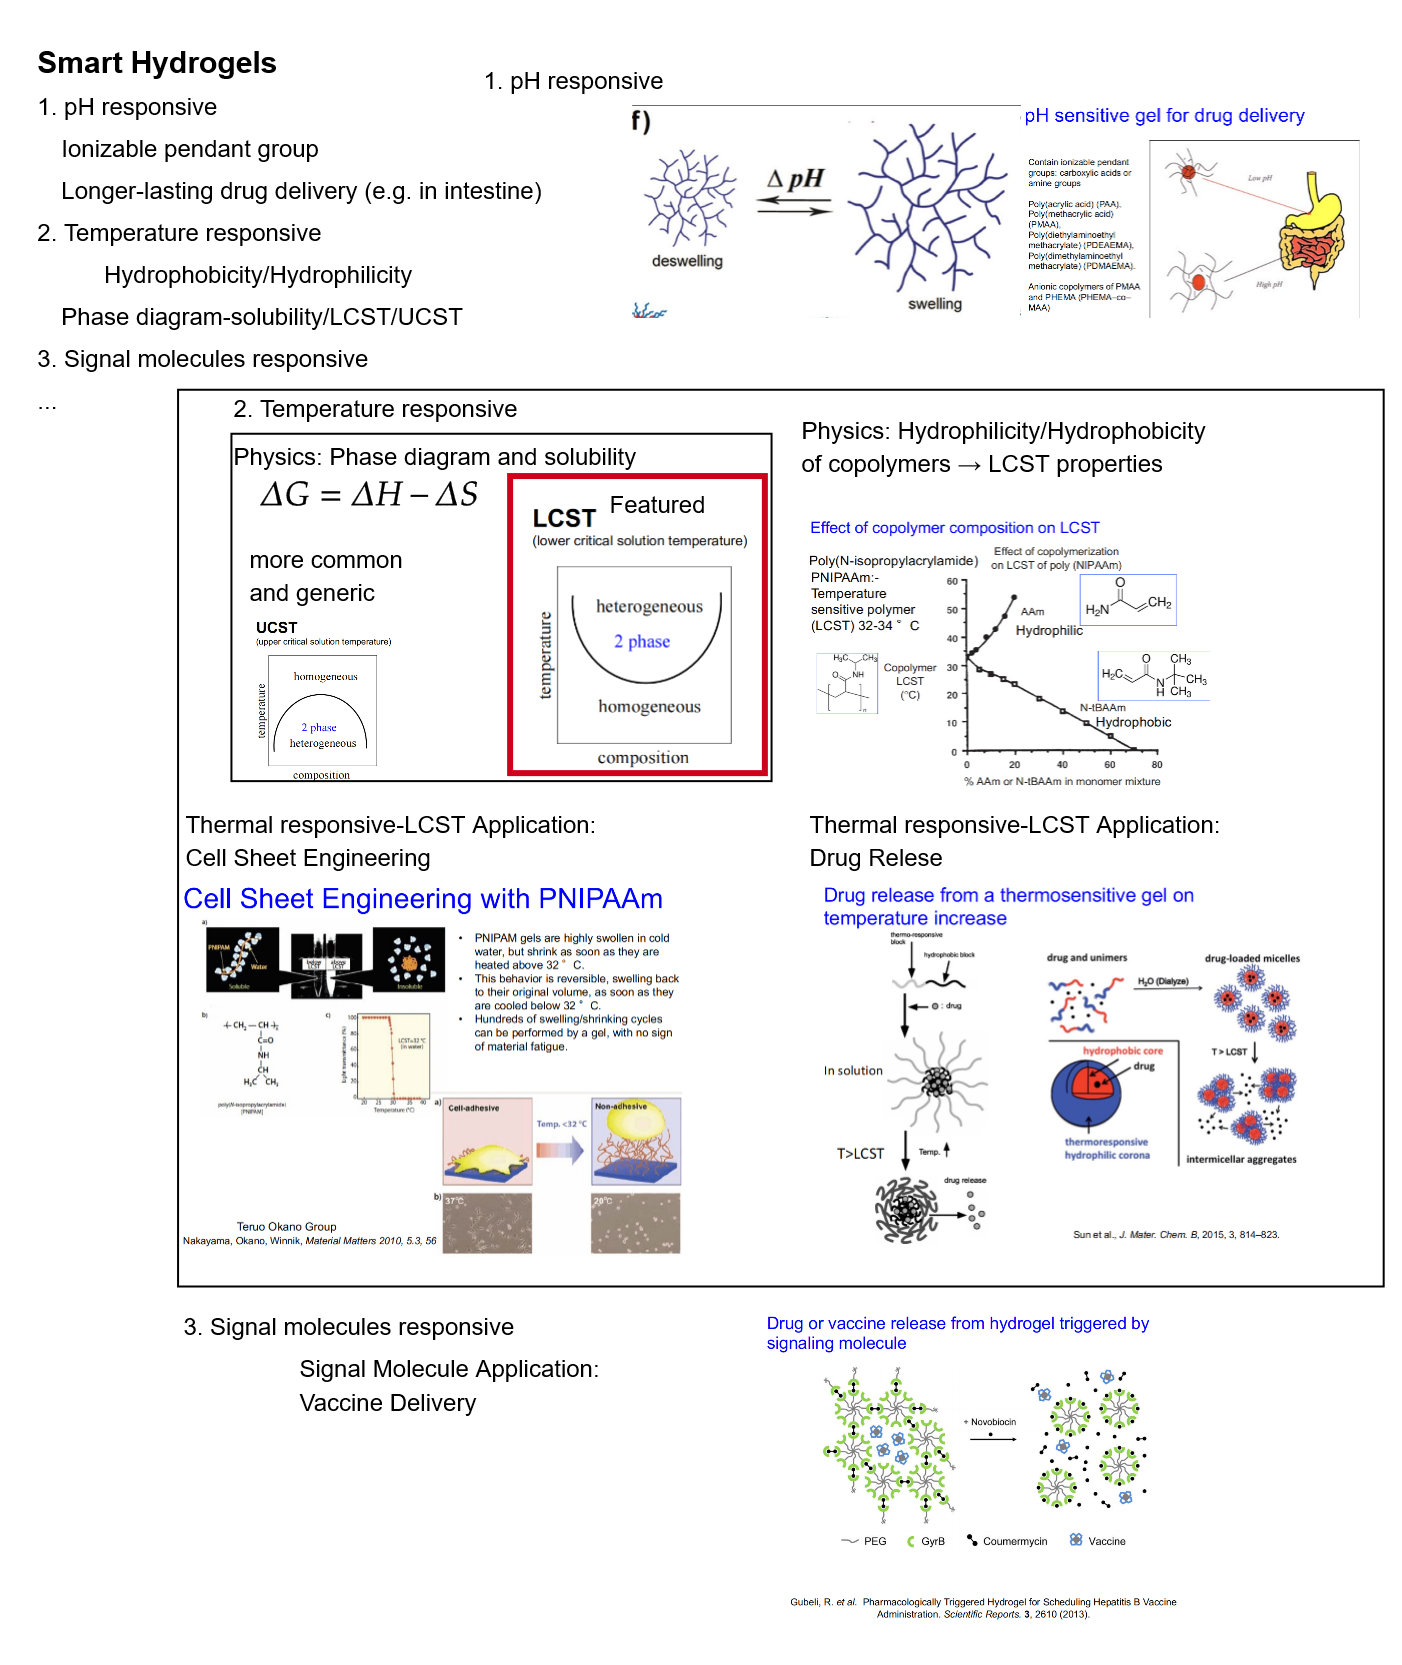
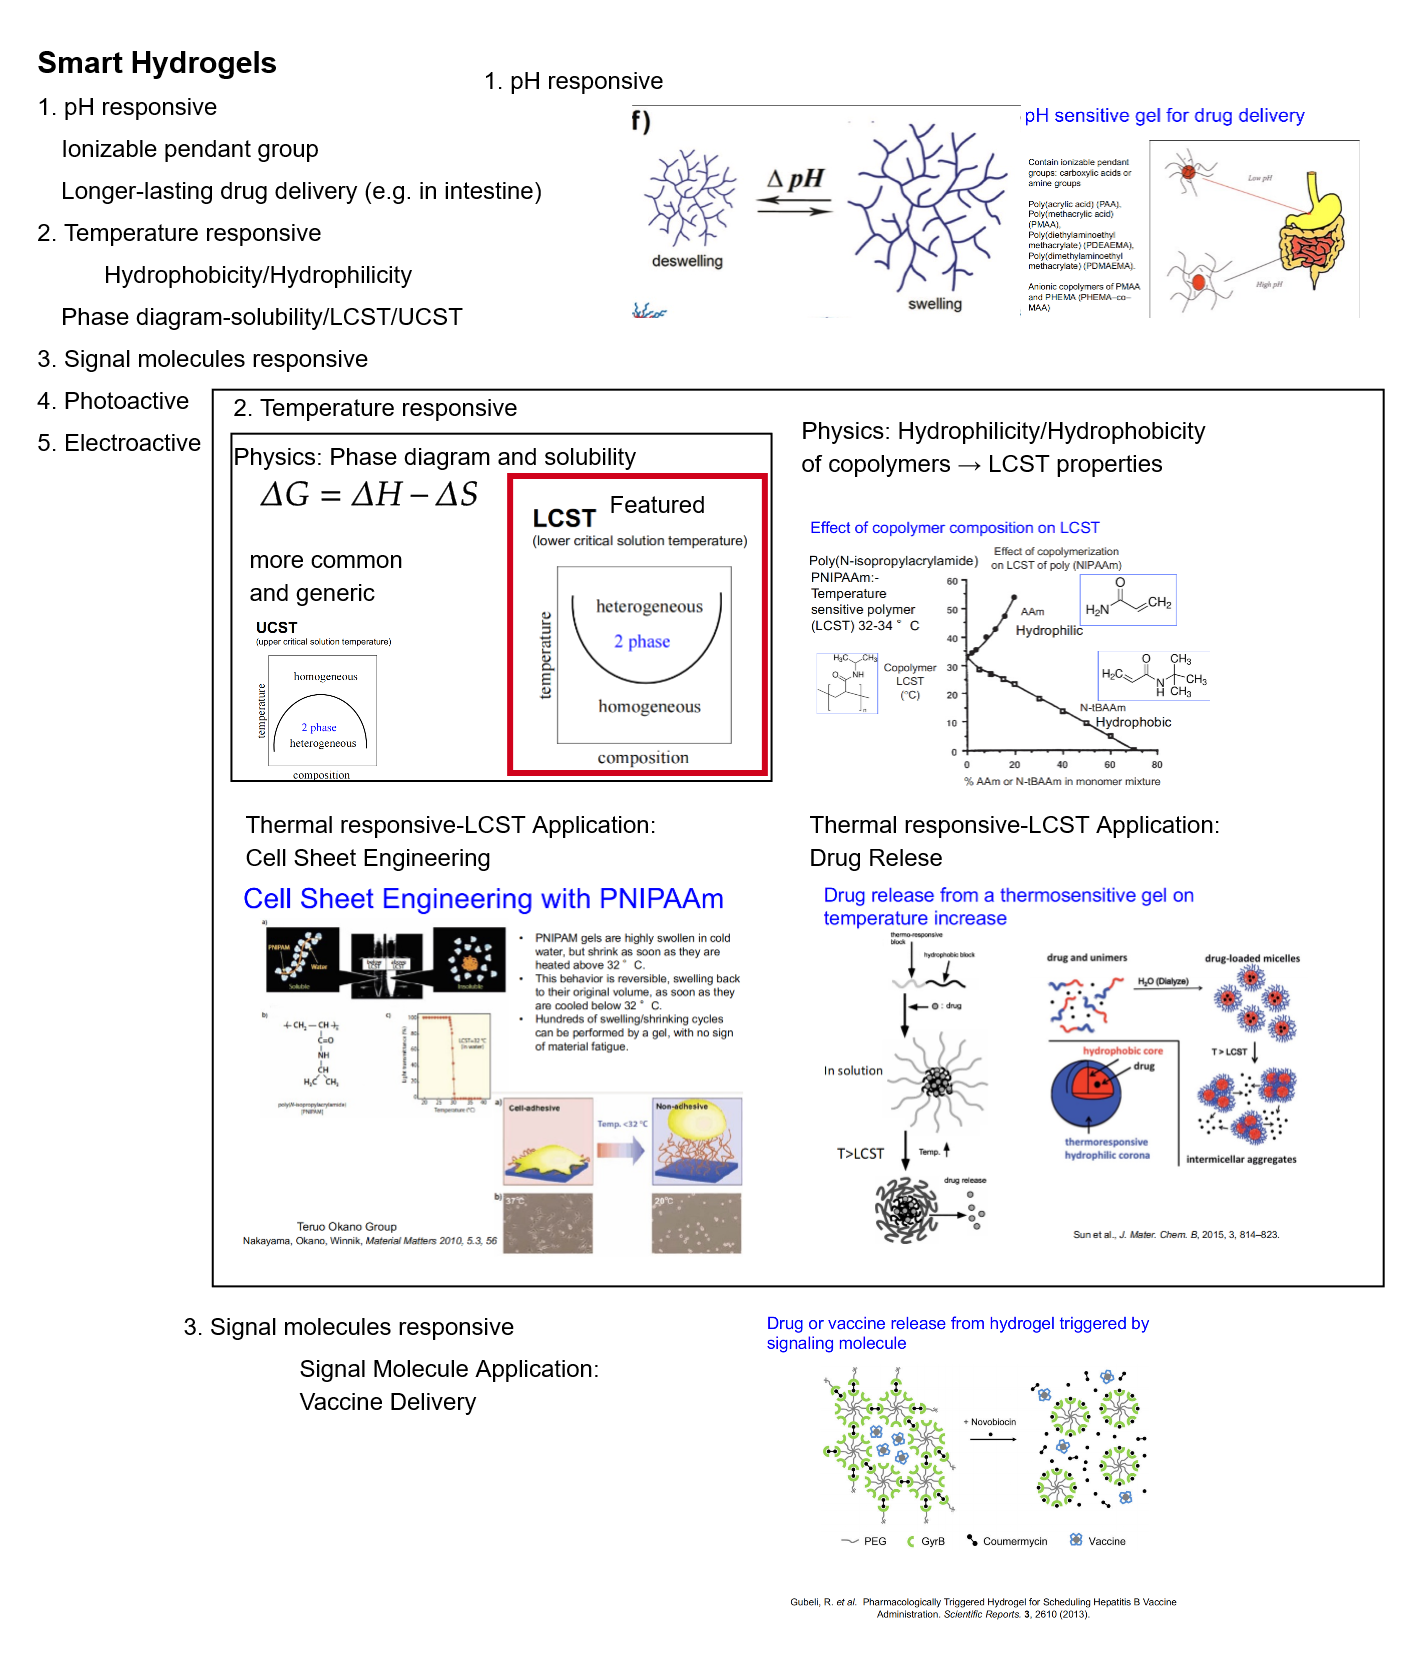
1pm update

diff --git a/734/g-course-memo/course/2/activity_date_asc.html b/734/g-course-memo/course/2/activity_date_asc.html
@@ -33,7 +33,7 @@
             <tr>
                 <td>15</td>
                 <td>2024-10-17</td>
-                <td><a href="/734/g-course-memo/course/2/activity_id/2.html">Polymer-Surface Characterization</a></td>              
+                <td><a href="/734/g-course-memo/course/2/activity_id/2.html">Polymer:<br>Surface Characterization</a></td>              
                 <td>
                     
                         No image available
@@ -79,10 +79,22 @@
             <tr>
                 <td>19</td>
                 <td>2024-11-05</td>
-                <td><a href="/734/g-course-memo/course/2/activity_id/31.html">Hydrogels 3:<br>Smart Hydrogels</a></td>              
+                <td><a href="/734/g-course-memo/course/2/activity_id/31.html">Hydrogels 3:<br>Smart Hydrogels 1</a></td>              
                 <td>
                     
                             <a href="/734/g-course-memo/course/2/activity_id/31.html" target="_blank"><img src="/static/G-Course-Memo%20image/BME410/BME410_19_1.png" alt="None" class="academic-image"></a>
+                        <!-- </a> -->
+                    
+                </td>             
+            </tr>
+            
+            <tr>
+                <td>20</td>
+                <td>2024-11-07</td>
+                <td><a href="/734/g-course-memo/course/2/activity_id/43.html">Hydrogels 3:<br>Smart Hydrogels 2<br>Sterilization of Biomaterials</a></td>              
+                <td>
+                    
+                            <a href="/734/g-course-memo/course/2/activity_id/43.html" target="_blank"><img src="/static/G-Course-Memo%20image/BME410/BME410_20_1.png" alt="None" class="academic-image"></a>
                         <!-- </a> -->
                     
                 </td>             

diff --git a/734/g-course-memo/course/2/activity_id.html b/734/g-course-memo/course/2/activity_id.html
@@ -33,7 +33,7 @@
             <tr>
                 <td>15</td>
                 <td>2024-10-17</td>
-                <td><a href="/734/g-course-memo/course/2/activity_id/2.html">Polymer-Surface Characterization</a></td>              
+                <td><a href="/734/g-course-memo/course/2/activity_id/2.html">Polymer:<br>Surface Characterization</a></td>              
                 <td>
                     
                         No image available
@@ -79,10 +79,22 @@
             <tr>
                 <td>19</td>
                 <td>2024-11-05</td>
-                <td><a href="/734/g-course-memo/course/2/activity_id/31.html">Hydrogels 3:<br>Smart Hydrogels</a></td>              
+                <td><a href="/734/g-course-memo/course/2/activity_id/31.html">Hydrogels 3:<br>Smart Hydrogels 1</a></td>              
                 <td>
                     
                             <a href="/734/g-course-memo/course/2/activity_id/31.html" target="_blank"><img src="/static/G-Course-Memo%20image/BME410/BME410_19_1.png" alt="None" class="academic-image"></a>
+                        <!-- </a> -->
+                    
+                </td>             
+            </tr>
+            
+            <tr>
+                <td>20</td>
+                <td>2024-11-07</td>
+                <td><a href="/734/g-course-memo/course/2/activity_id/43.html">Hydrogels 3:<br>Smart Hydrogels 2<br>Sterilization of Biomaterials</a></td>              
+                <td>
+                    
+                            <a href="/734/g-course-memo/course/2/activity_id/43.html" target="_blank"><img src="/static/G-Course-Memo%20image/BME410/BME410_20_1.png" alt="None" class="academic-image"></a>
                         <!-- </a> -->
                     
                 </td>             

diff --git a/734/g-course-memo/course/2/activity_sequence.html b/734/g-course-memo/course/2/activity_sequence.html
@@ -33,7 +33,7 @@
             <tr>
                 <td>15</td>
                 <td>2024-10-17</td>
-                <td><a href="/734/g-course-memo/course/2/activity_id/2.html">Polymer-Surface Characterization</a></td>              
+                <td><a href="/734/g-course-memo/course/2/activity_id/2.html">Polymer:<br>Surface Characterization</a></td>              
                 <td>
                     
                         No image available
@@ -79,10 +79,22 @@
             <tr>
                 <td>19</td>
                 <td>2024-11-05</td>
-                <td><a href="/734/g-course-memo/course/2/activity_id/31.html">Hydrogels 3:<br>Smart Hydrogels</a></td>              
+                <td><a href="/734/g-course-memo/course/2/activity_id/31.html">Hydrogels 3:<br>Smart Hydrogels 1</a></td>              
                 <td>
                     
                             <a href="/734/g-course-memo/course/2/activity_id/31.html" target="_blank"><img src="/static/G-Course-Memo%20image/BME410/BME410_19_1.png" alt="None" class="academic-image"></a>
+                        <!-- </a> -->
+                    
+                </td>             
+            </tr>
+            
+            <tr>
+                <td>20</td>
+                <td>2024-11-07</td>
+                <td><a href="/734/g-course-memo/course/2/activity_id/43.html">Hydrogels 3:<br>Smart Hydrogels 2<br>Sterilization of Biomaterials</a></td>              
+                <td>
+                    
+                            <a href="/734/g-course-memo/course/2/activity_id/43.html" target="_blank"><img src="/static/G-Course-Memo%20image/BME410/BME410_20_1.png" alt="None" class="academic-image"></a>
                         <!-- </a> -->
                     
                 </td>             

diff --git a/734/g-course-memo/course/2/activity_name.html b/734/g-course-memo/course/2/activity_name.html
@@ -57,7 +57,7 @@
             <tr>
                 <td>19</td>
                 <td>2024-11-05</td>
-                <td><a href="/734/g-course-memo/course/2/activity_id/31.html">Hydrogels 3:<br>Smart Hydrogels</a></td>              
+                <td><a href="/734/g-course-memo/course/2/activity_id/31.html">Hydrogels 3:<br>Smart Hydrogels 1</a></td>              
                 <td>
                     
                             <a href="/734/g-course-memo/course/2/activity_id/31.html" target="_blank"><img src="/static/G-Course-Memo%20image/BME410/BME410_19_1.png" alt="None" class="academic-image"></a>
@@ -67,9 +67,21 @@
             </tr>
             
             <tr>
+                <td>20</td>
+                <td>2024-11-07</td>
+                <td><a href="/734/g-course-memo/course/2/activity_id/43.html">Hydrogels 3:<br>Smart Hydrogels 2<br>Sterilization of Biomaterials</a></td>              
+                <td>
+                    
+                            <a href="/734/g-course-memo/course/2/activity_id/43.html" target="_blank"><img src="/static/G-Course-Memo%20image/BME410/BME410_20_1.png" alt="None" class="academic-image"></a>
+                        <!-- </a> -->
+                    
+                </td>             
+            </tr>
+            
+            <tr>
                 <td>15</td>
                 <td>2024-10-17</td>
-                <td><a href="/734/g-course-memo/course/2/activity_id/2.html">Polymer-Surface Characterization</a></td>              
+                <td><a href="/734/g-course-memo/course/2/activity_id/2.html">Polymer:<br>Surface Characterization</a></td>              
                 <td>
                     
                         No image available

diff --git a/734/g-course-memo/course/2/activity_date_desc.html b/734/g-course-memo/course/2/activity_date_desc.html
@@ -31,9 +31,21 @@
         <tbody>
             
             <tr>
+                <td>20</td>
+                <td>2024-11-07</td>
+                <td><a href="/734/g-course-memo/course/2/activity_id/43.html">Hydrogels 3:<br>Smart Hydrogels 2<br>Sterilization of Biomaterials</a></td>              
+                <td>
+                    
+                            <a href="/734/g-course-memo/course/2/activity_id/43.html" target="_blank"><img src="/static/G-Course-Memo%20image/BME410/BME410_20_1.png" alt="None" class="academic-image"></a>
+                        <!-- </a> -->
+                    
+                </td>             
+            </tr>
+            
+            <tr>
                 <td>19</td>
                 <td>2024-11-05</td>
-                <td><a href="/734/g-course-memo/course/2/activity_id/31.html">Hydrogels 3:<br>Smart Hydrogels</a></td>              
+                <td><a href="/734/g-course-memo/course/2/activity_id/31.html">Hydrogels 3:<br>Smart Hydrogels 1</a></td>              
                 <td>
                     
                             <a href="/734/g-course-memo/course/2/activity_id/31.html" target="_blank"><img src="/static/G-Course-Memo%20image/BME410/BME410_19_1.png" alt="None" class="academic-image"></a>
@@ -80,7 +92,7 @@
             <tr>
                 <td>15</td>
                 <td>2024-10-17</td>
-                <td><a href="/734/g-course-memo/course/2/activity_id/2.html">Polymer-Surface Characterization</a></td>              
+                <td><a href="/734/g-course-memo/course/2/activity_id/2.html">Polymer:<br>Surface Characterization</a></td>              
                 <td>
                     
                         No image available

diff --git a/734/g-course-memo/course/2/activity_id/43.html b/734/g-course-memo/course/2/activity_id/43.html
@@ -8,12 +8,13 @@
 </head>
 <body>
     <h1>G Course Memo: <span style="border-bottom: 1px dotted;" title="Design and Applications of Biomaterials">BME410</span></h1>
-    <h2>Polymer:
-Surface Characterization (#15)</h2>
+    <h2>Hydrogels 3:
+Smart Hydrogels 2
+Sterilization of Biomaterials (#20)</h2>
 
     <div class="container">
         <div class="text-column">
-            <div class="activity-links" data-course-id="2" data-activity-id="2">
+            <div class="activity-links" data-course-id="2" data-activity-id="43">
             </div>
             
                 <p>
@@ -23,6 +24,14 @@ Surface Characterization (#15)</h2>
         </div>
         <div class="image-column">
             <ul>
+                
+                    <li>
+                        <a href="/734/g-course-memo/course/2/activity_sequence.html"><img src="/static/G-Course-Memo%20image/BME410/BME410_20_1.png" ></a>
+                    </li>
+                
+                    <li>
+                        <a href="/734/g-course-memo/course/2/activity_sequence.html"><img src="/static/G-Course-Memo%20image/BME410/BME410_20_2.png" ></a>
+                    </li>
                 
             </ul>
         </div>

diff --git a/734/g-course-memo/course/2/activity_id/31.html b/734/g-course-memo/course/2/activity_id/31.html
@@ -9,7 +9,7 @@
 <body>
     <h1>G Course Memo: <span style="border-bottom: 1px dotted;" title="Design and Applications of Biomaterials">BME410</span></h1>
     <h2>Hydrogels 3:
-Smart Hydrogels (#19)</h2>
+Smart Hydrogels 1 (#19)</h2>
 
     <div class="container">
         <div class="text-column">
@@ -26,6 +26,10 @@ Smart Hydrogels (#19)</h2>
                 
                     <li>
                         <a href="/734/g-course-memo/course/2/activity_sequence.html"><img src="/static/G-Course-Memo%20image/BME410/BME410_19_1.png" ></a>
+                    </li>
+                
+                    <li>
+                        <a href="/734/g-course-memo/course/2/activity_sequence.html"><img src="/static/G-Course-Memo%20image/BME410/BME410_19_2.png" ></a>
                     </li>
                 
             </ul>

diff --git a/734/g-course-memo/course/5/activity_date_desc.html b/734/g-course-memo/course/5/activity_date_desc.html
@@ -148,7 +148,7 @@
             <tr>
                 <td>8</td>
                 <td>2024-09-19</td>
-                <td><a href="/734/g-course-memo/course/5/activity_id/34.html">Chap.3 Feedforward Loop Network Motif 2:<br>Coherent Feedforward Loop</a></td>              
+                <td><a href="/734/g-course-memo/course/5/activity_id/34.html">Chap.3 Feedforward Loop Network Motif 2:<br>Coherent Feedforward Loop 2</a></td>              
                 <td>
                     
                         No image available

diff --git a/734/g-course-memo/course/5/activity_date_asc.html b/734/g-course-memo/course/5/activity_date_asc.html
@@ -66,7 +66,7 @@
             <tr>
                 <td>8</td>
                 <td>2024-09-19</td>
-                <td><a href="/734/g-course-memo/course/5/activity_id/34.html">Chap.3 Feedforward Loop Network Motif 2:<br>Coherent Feedforward Loop</a></td>              
+                <td><a href="/734/g-course-memo/course/5/activity_id/34.html">Chap.3 Feedforward Loop Network Motif 2:<br>Coherent Feedforward Loop 2</a></td>              
                 <td>
                     
                         No image available

diff --git a/734/g-course-memo/course/5/activity_id.html b/734/g-course-memo/course/5/activity_id.html
@@ -92,7 +92,7 @@
             <tr>
                 <td>8</td>
                 <td>2024-09-19</td>
-                <td><a href="/734/g-course-memo/course/5/activity_id/34.html">Chap.3 Feedforward Loop Network Motif 2:<br>Coherent Feedforward Loop</a></td>              
+                <td><a href="/734/g-course-memo/course/5/activity_id/34.html">Chap.3 Feedforward Loop Network Motif 2:<br>Coherent Feedforward Loop 2</a></td>              
                 <td>
                     
                         No image available

diff --git a/734/g-course-memo/course/5/activity_name.html b/734/g-course-memo/course/5/activity_name.html
@@ -89,7 +89,7 @@
             <tr>
                 <td>8</td>
                 <td>2024-09-19</td>
-                <td><a href="/734/g-course-memo/course/5/activity_id/34.html">Chap.3 Feedforward Loop Network Motif 2:<br>Coherent Feedforward Loop</a></td>              
+                <td><a href="/734/g-course-memo/course/5/activity_id/34.html">Chap.3 Feedforward Loop Network Motif 2:<br>Coherent Feedforward Loop 2</a></td>              
                 <td>
                     
                         No image available

diff --git a/734/g-course-memo/course/5/activity_sequence.html b/734/g-course-memo/course/5/activity_sequence.html
@@ -66,7 +66,7 @@
             <tr>
                 <td>8</td>
                 <td>2024-09-19</td>
-                <td><a href="/734/g-course-memo/course/5/activity_id/34.html">Chap.3 Feedforward Loop Network Motif 2:<br>Coherent Feedforward Loop</a></td>              
+                <td><a href="/734/g-course-memo/course/5/activity_id/34.html">Chap.3 Feedforward Loop Network Motif 2:<br>Coherent Feedforward Loop 2</a></td>              
                 <td>
                     
                         No image available
